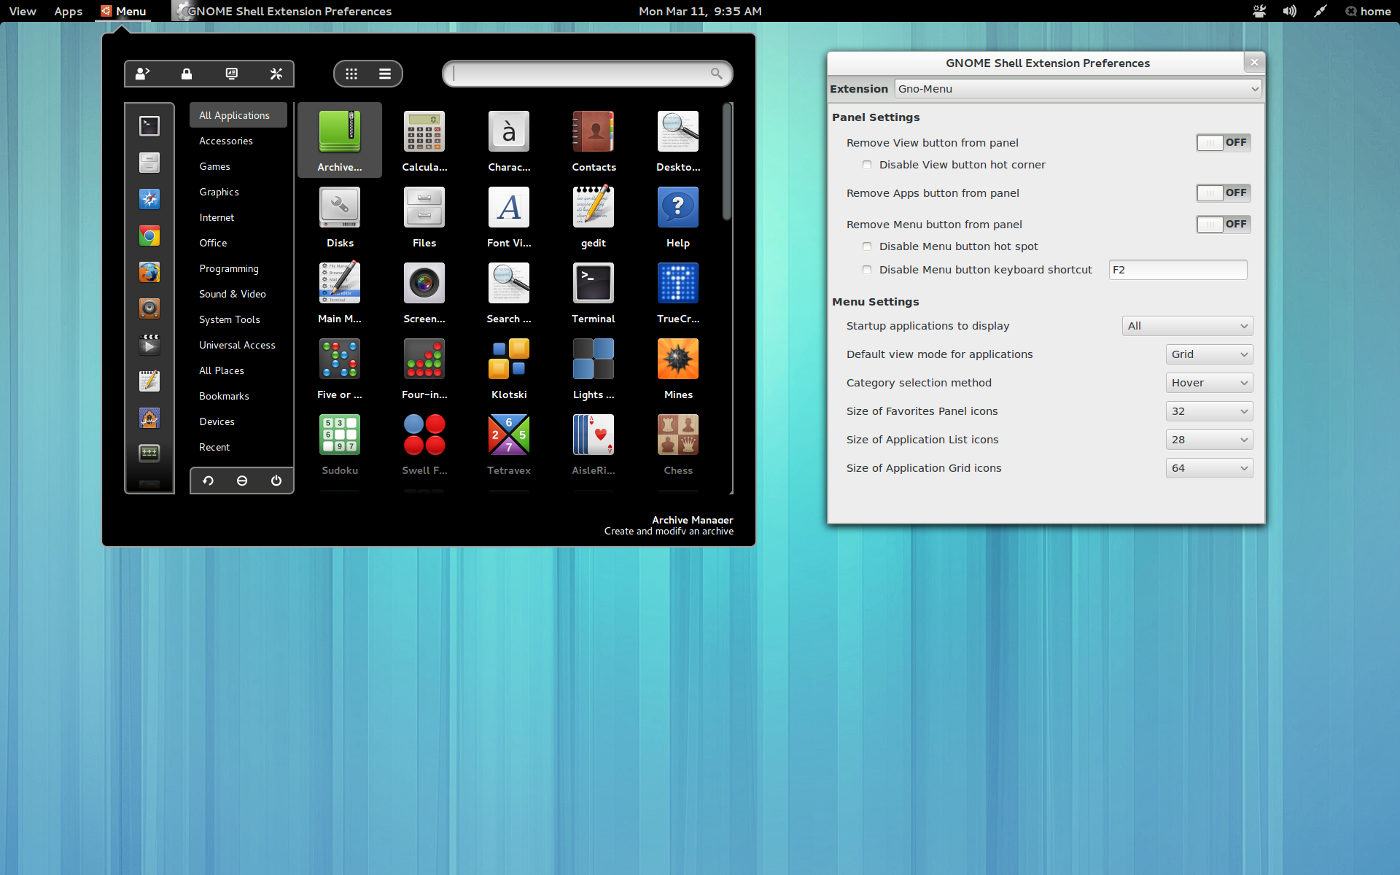
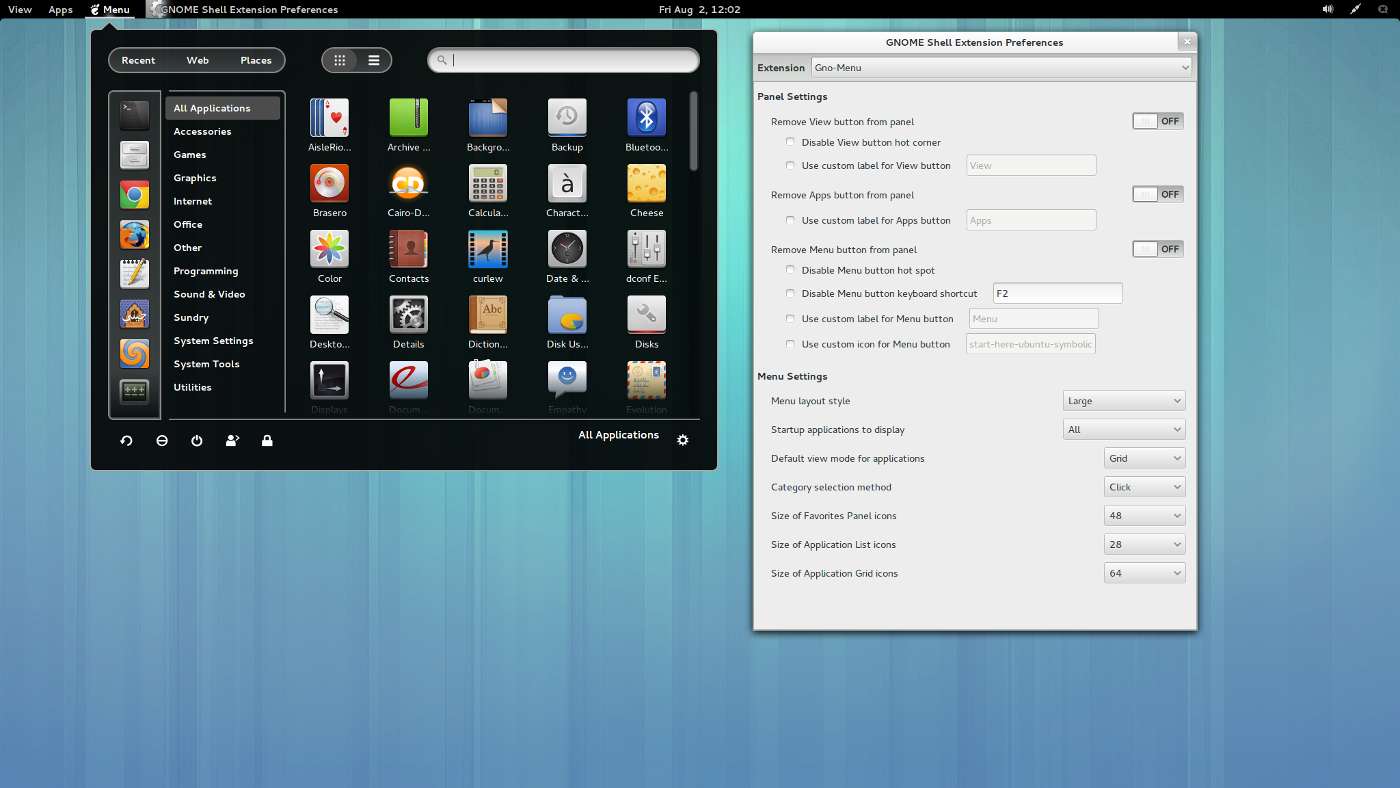
Updated Readme and Screenshot.

diff --git a/README.md b/README.md
@@ -9,3 +9,41 @@ Gno-Menu is a traditional styled full featured Gnome-Shell apps menu, that aims 
 
 ![screenshot](https://github.com/The-Panacea-Projects/Gnomenu/raw/master/Screenshot.png)
 
+1) User options >  Comprising of three categories ( Recent, Web and Places ) 
+
+      a) Recent >  Offers immediate access to all your recently used files and apps.
+      b) Web >  Offers all your internet browsing bookmarks in one place.
+      c) Places > Offers access to your home directory, bookmarks and external drives.
+      Note: Workspace thumbnails appear in the application categories area anticipating drag-n-drop action.
+
+2) View options >  Comprising of two options ( Grid and List ) 
+      
+      a) Grid >  Icons align in a grid pattern -  App names are displayed at bottom of icons.
+      b) List >  Icons align vertically -  App names and descriptions are displayed to the right.
+
+3) Search Bar >  Search for installed apps, recently used files and bookmarks simultaneously.
+       
+      All relevant information is displayed according to categories. 
+
+4) Favorites Panel >  Here you can find all the Apps that you added to your favorites.
+  
+      a) Apps can be launched via mouse click or drag and drop on any desktop/workspace.
+      Note: Workspace thumbnails appear in the application categories area when drag-n-drop is initiated.
+
+5) Categories/Workspace Box >   Access  App categories or  Workspaces via right click.
+
+      a) Categories >  Access available apps via traditional styled application groups.
+      b) Workspaces > Workspace selection using mouse click, with drag and drop functionality.
+
+6) Power Options >  Restart, suspend, power off, logout and lock functions in one place.
+
+     a) Restart >  Restarts gnome shell only.
+     b) Suspend >  Puts the operating system into sleep mode.
+     c) Power Off >  Brings up the shut down dialog.
+     d) Log Out >  Logs out current user.
+     e) Lock >  Locks the desktop of current user.
+
+7) Selected App Box >  Gives a brief description of any menu item while hovering.
+ 
+8) Gear Icon >  Launches Gnome Shell preferences dialog for easy configuration.
+
